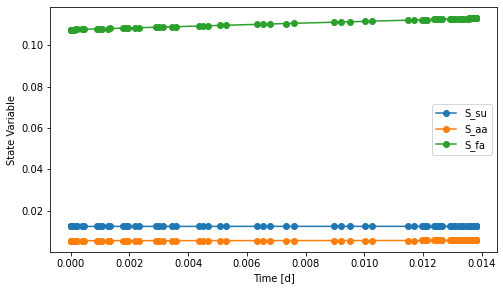
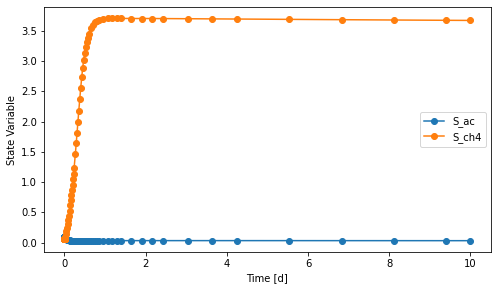
update adm README example

Changed region(s): [[0.0302, 0.031, 0.996, 0.9931], [0.8451, 0.3414, 0.996, 0.5586]]

diff --git a/exposan/adm/README.rst b/exposan/adm/README.rst
@@ -22,10 +22,11 @@ Load the system
    >>> from exposan import adm
    >>> adm.load()
    >>> sys = adm.sys
-   >>> sys.simulate(t_span=(0, 50))
+   >>> # RK23 or RK45 doesn't work
+   >>> sys.simulate(t_span=(0,50), method='BDF')
    >>> AD = adm.AD
    >>> # Check the states of any one or more components
-   >>> fig, axis = AD.scope.plot_time_series(AD.components.IDs[:3])
+   >>> fig, axis = AD.scope.plot_time_series(('S_ch4', 'S_ac'))
    >>> fig
 
 .. figure:: ./readme_figures/AD_select_states.png
